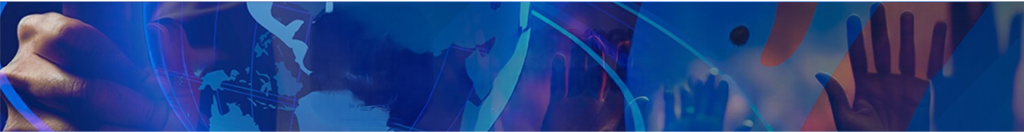
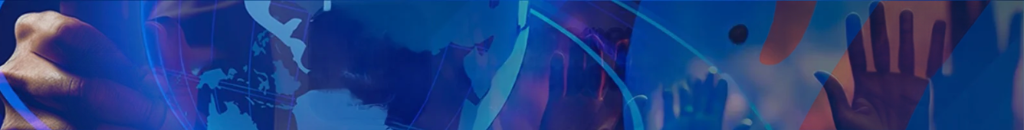
Add modern broadcasting background design to app header with glassmorphism controls

diff --git a/src/components/Header.js b/src/components/Header.js
@@ -1,5 +1,5 @@
 import React from 'react';
-import { View, Text, StyleSheet, TouchableOpacity, Image, useWindowDimensions, Linking } from 'react-native';
+import { View, Text, StyleSheet, TouchableOpacity, Image, ImageBackground, useWindowDimensions } from 'react-native';
 import { Ionicons } from '@expo/vector-icons';
 import { useSafeAreaInsets } from 'react-native-safe-area-context';
 import { useNavigation } from '@react-navigation/native';
@@ -20,8 +20,8 @@ export const Header = ({ onSearchPress, onPremiumPress, onProfilePress }) => {
   }, [user?.avatar]);
 
   const isSmall = width < 360;
-  const logoWidth = isSmall ? 110 : width > 600 ? 160 : 130;
-  const logoHeight = isSmall ? 34 : width > 600 ? 46 : 38;
+  const logoWidth = isSmall ? 115 : width > 600 ? 165 : 135;
+  const logoHeight = isSmall ? 36 : width > 600 ? 48 : 40;
 
   const handleAccountPress = () => {
     if (onProfilePress) {
@@ -44,16 +44,29 @@ export const Header = ({ onSearchPress, onPremiumPress, onProfilePress }) => {
   };
 
   return (
-    <View
+    <ImageBackground
+      source={require('../../assets/header-bg.png')}
       style={[
         styles.container,
         {
-          backgroundColor: colors.card,
-          borderBottomColor: colors.border,
           paddingTop: Math.max(insets.top, 12) + 4,
+          borderBottomColor: isDarkMode ? 'rgba(0, 163, 232, 0.25)' : colors.border,
         },
       ]}
+      resizeMode="cover"
     >
+      {/* Subtle backdrop overlay for enhanced contrast */}
+      <View
+        style={[
+          styles.overlay,
+          {
+            backgroundColor: isDarkMode
+              ? 'rgba(7, 13, 24, 0.45)'
+              : 'rgba(248, 250, 252, 0.15)',
+          },
+        ]}
+      />
+
       <View style={styles.topRow}>
         {/* Official Brand Logo */}
         <View style={styles.brandContainer}>
@@ -90,17 +103,41 @@ export const Header = ({ onSearchPress, onPremiumPress, onProfilePress }) => {
           {/* Search Button */}
           {onSearchPress && (
             <TouchableOpacity
-              style={[styles.iconButton, { backgroundColor: colors.inputBg }]}
+              style={[
+                styles.iconButton,
+                {
+                  backgroundColor: isDarkMode
+                    ? 'rgba(255, 255, 255, 0.14)'
+                    : 'rgba(255, 255, 255, 0.88)',
+                  borderColor: isDarkMode
+                    ? 'rgba(255, 255, 255, 0.18)'
+                    : 'rgba(0, 163, 232, 0.25)',
+                },
+              ]}
               onPress={onSearchPress}
               activeOpacity={0.7}
             >
-              <Ionicons name="search-outline" size={18} color={colors.text} />
+              <Ionicons
+                name="search-outline"
+                size={18}
+                color={isDarkMode ? '#FFFFFF' : COLORS.textPrimary}
+              />
             </TouchableOpacity>
           )}
 
           {/* Account / Profile Button */}
           <TouchableOpacity
-            style={[styles.iconButton, { backgroundColor: colors.inputBg }]}
+            style={[
+              styles.iconButton,
+              {
+                backgroundColor: isDarkMode
+                  ? 'rgba(255, 255, 255, 0.14)'
+                  : 'rgba(255, 255, 255, 0.88)',
+                borderColor: isDarkMode
+                  ? 'rgba(255, 255, 255, 0.18)'
+                  : 'rgba(0, 163, 232, 0.25)',
+              },
+            ]}
             onPress={handleAccountPress}
             activeOpacity={0.7}
           >
@@ -118,40 +155,56 @@ export const Header = ({ onSearchPress, onPremiumPress, onProfilePress }) => {
               <Ionicons
                 name="person-outline"
                 size={18}
-                color={colors.text}
+                color={isDarkMode ? '#FFFFFF' : COLORS.textPrimary}
               />
             )}
           </TouchableOpacity>
 
           {/* Dark / Light Toggle */}
           <TouchableOpacity
-            style={[styles.iconButton, { backgroundColor: colors.inputBg }]}
+            style={[
+              styles.iconButton,
+              {
+                backgroundColor: isDarkMode
+                  ? 'rgba(255, 255, 255, 0.14)'
+                  : 'rgba(255, 255, 255, 0.88)',
+                borderColor: isDarkMode
+                  ? 'rgba(255, 255, 255, 0.18)'
+                  : 'rgba(0, 163, 232, 0.25)',
+              },
+            ]}
             onPress={toggleTheme}
             activeOpacity={0.7}
           >
             <Ionicons
               name={isDarkMode ? 'sunny-outline' : 'moon-outline'}
               size={18}
-              color={isDarkMode ? COLORS.gold : colors.text}
+              color={isDarkMode ? COLORS.gold : COLORS.textPrimary}
             />
           </TouchableOpacity>
         </View>
       </View>
-    </View>
+    </ImageBackground>
   );
 };
 
 const styles = StyleSheet.create({
   container: {
     paddingHorizontal: SPACING.md,
-    paddingBottom: SPACING.sm,
+    paddingBottom: SPACING.sm + 2,
     borderBottomWidth: 1,
+    position: 'relative',
+    overflow: 'hidden',
+  },
+  overlay: {
+    ...StyleSheet.absoluteFillObject,
   },
   topRow: {
     flexDirection: 'row',
     alignItems: 'center',
     justifyContent: 'space-between',
     minHeight: 46,
+    zIndex: 1,
   },
   brandContainer: {
     flexDirection: 'row',
@@ -165,15 +218,15 @@ const styles = StyleSheet.create({
   subscribeIconButton: {
     flexDirection: 'row',
     alignItems: 'center',
-    paddingHorizontal: 10,
-    paddingVertical: 5.5,
+    paddingHorizontal: 11,
+    paddingVertical: 6,
     borderRadius: RADIUS.full,
-    gap: 4,
+    gap: 4.5,
     shadowColor: COLORS.primary,
     shadowOffset: { width: 0, height: 2 },
-    shadowOpacity: 0.3,
-    shadowRadius: 3,
-    elevation: 3,
+    shadowOpacity: 0.35,
+    shadowRadius: 4,
+    elevation: 4,
   },
   subscribeIconText: {
     color: '#FFFFFF',
@@ -184,15 +237,15 @@ const styles = StyleSheet.create({
   vipBadgeButton: {
     flexDirection: 'row',
     alignItems: 'center',
-    paddingHorizontal: 10,
-    paddingVertical: 5.5,
+    paddingHorizontal: 11,
+    paddingVertical: 6,
     borderRadius: RADIUS.full,
-    gap: 4,
+    gap: 4.5,
     shadowColor: COLORS.primary,
     shadowOffset: { width: 0, height: 2 },
-    shadowOpacity: 0.3,
-    shadowRadius: 3,
-    elevation: 3,
+    shadowOpacity: 0.35,
+    shadowRadius: 4,
+    elevation: 4,
   },
   vipBadgeText: {
     color: '#FFFFFF',
@@ -206,6 +259,12 @@ const styles = StyleSheet.create({
     borderRadius: RADIUS.full,
     alignItems: 'center',
     justifyContent: 'center',
+    borderWidth: 1,
+    shadowColor: '#000000',
+    shadowOffset: { width: 0, height: 1 },
+    shadowOpacity: 0.12,
+    shadowRadius: 2,
+    elevation: 2,
   },
   headerAvatar: {
     width: 28,
